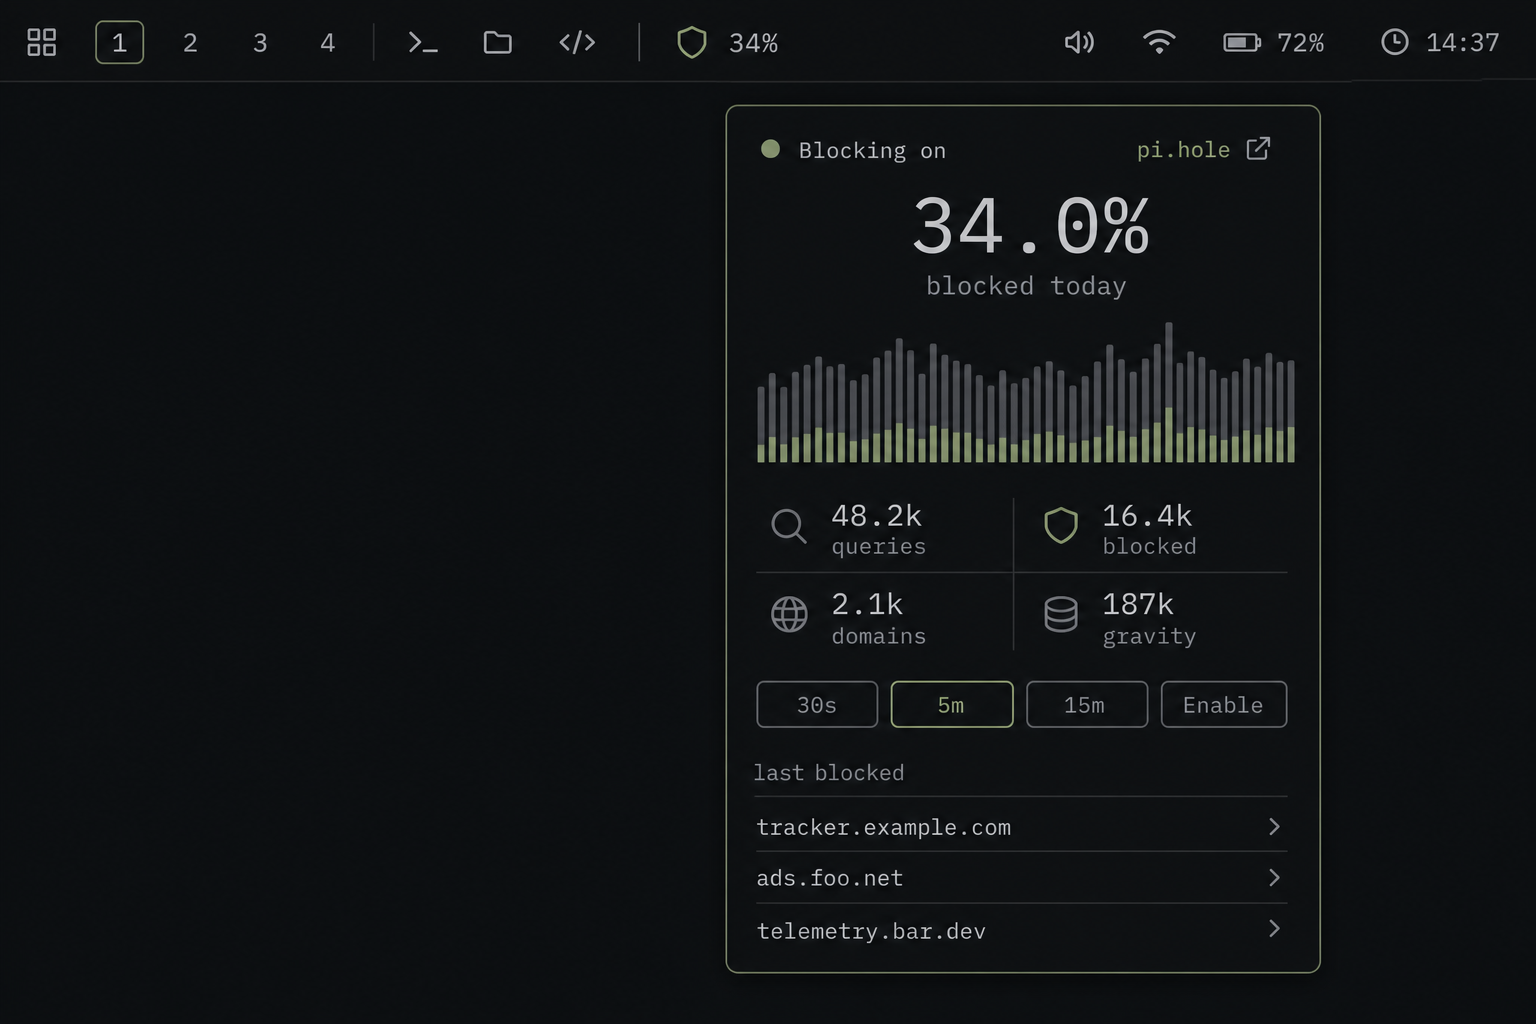
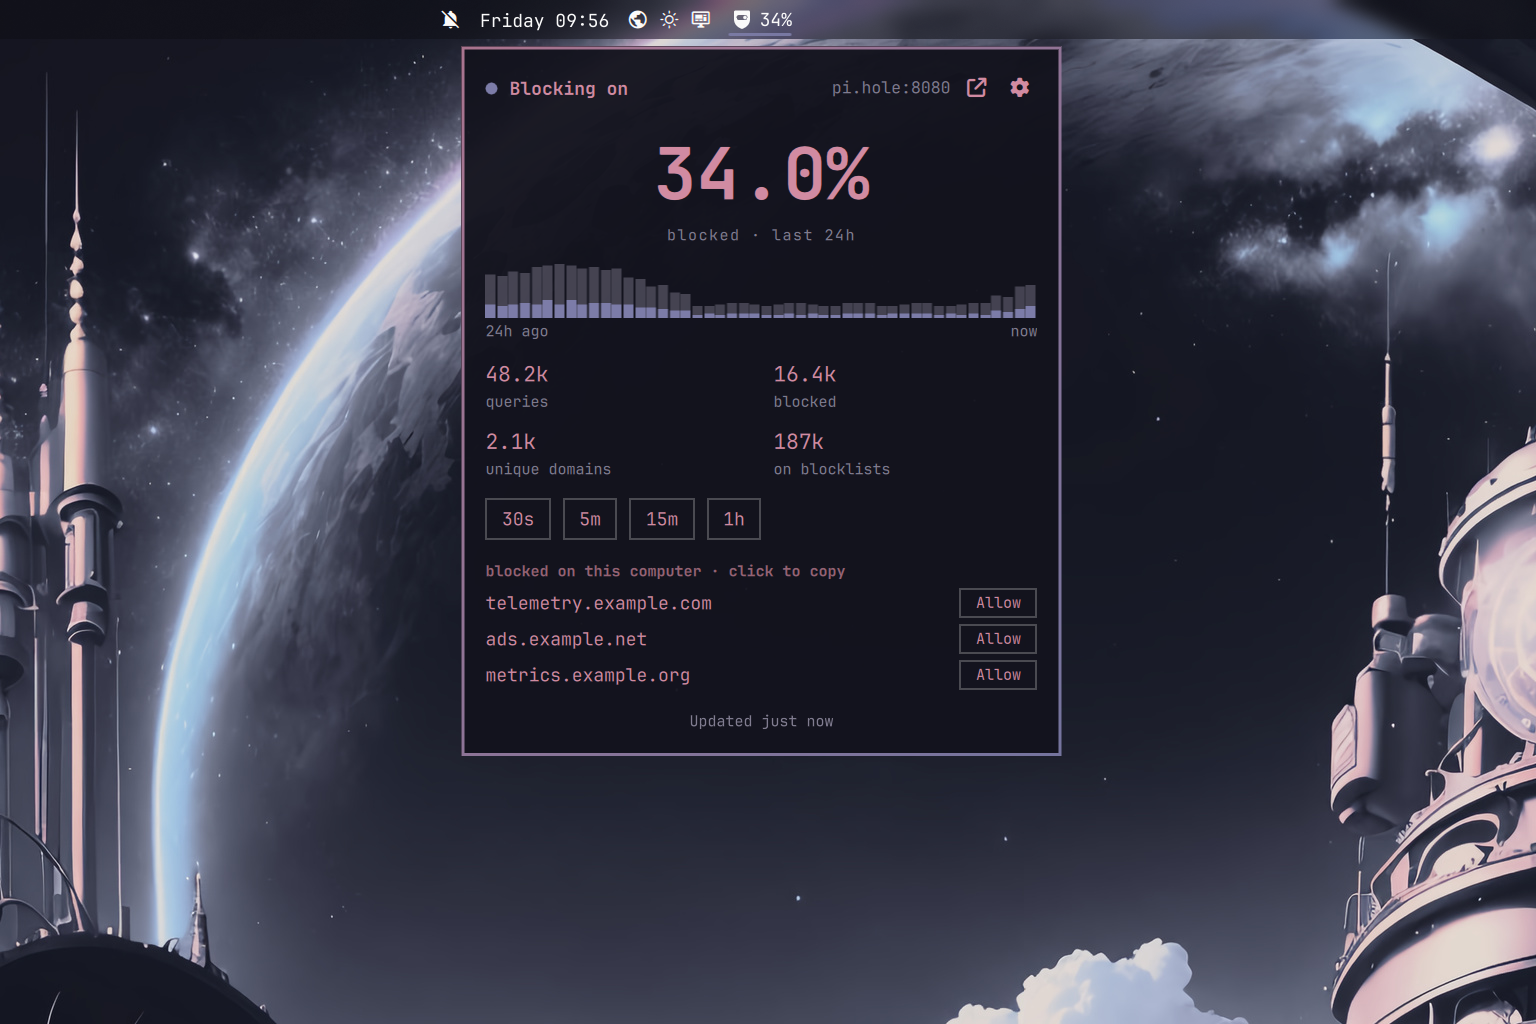
Replace the mockup with real screenshots
preview.png was a stylised mockup from 0.1.0. It is now the real panel
in Omarchy 4.5, with paused and settings views beside it in the
README. They were taken on an empty workspace against a local demo
Pi-hole serving generic data, so they show no real addresses,
domains or windows.

diff --git a/CHANGELOG.md b/CHANGELOG.md
@@ -11,6 +11,7 @@ All notable changes to OmaPihole. The format follows [Keep a Changelog](https://
 - The palette is read as `Commons.Color`, every string is drawn as plain text, and animations follow `omarchy toggle animations`, as Omarchy's plugin guide asks.
 - Settings are saved in one write that keeps the fields the setup form does not edit.
 - The plugin's strings are in `i18n/en.json` and follow Setup > Language; numbers use the language's separator and digits. English only so far.
+- The README explains that the API URL needs the port, what Dashboard URL and Allow insecure TLS do and don't do, and how to read Away from home, Offline, Failed and auth. Its screenshots are now real, taken against a demo Pi-hole.
 
 ### Added
 
@@ -22,6 +23,7 @@ All notable changes to OmaPihole. The format follows [Keep a Changelog](https://
 
 ### Fixed
 
+- The bar mark looked blurry and blocky on fractional display scales; it is now drawn with Qt's curve renderer and stays crisp.
 - After a URL change, or when **Test connection** checked a draft URL, the saved session ID was sent to the other host. Sessions are now tied to their host, and **Test connection** uses a throwaway session.
 - A valid saved session let **Test connection** pass with a wrong password file.
 - The same blocked domain could be listed more than once.

diff --git a/README.md b/README.md
@@ -5,7 +5,7 @@
 # OmaPihole
 
 <p align="center">
-  <img src="preview.png" alt="OmaPihole in the Omarchy bar: the mark, block percent, and the pause panel">
+  <img src="preview.png" alt="The OmaPihole panel open below the Omarchy bar: 34% blocked in the last 24 hours, a sparkline, query stats, pause buttons, and the domains blocked on this computer">
 </p>
 
 Pi-hole presence in the Omarchy bar: **state, pause, glance.**
@@ -18,6 +18,11 @@ Not a dashboard. A shield in the bar, a pause in the panel.
 - Glance at the last 24 hours’ block rate, and notice when the Pi-hole has an update or warnings waiting.
 
 One Pi-hole. The app password lives in a mode-600 file, never in `shell.json`.
+
+<p align="center">
+  <img src="assets/paused.webp" width="49%" alt="Paused: the bar counts down 4:55 in the urgent color, and the panel says resumes in 4:55 with a Resume button">
+  <img src="assets/setup.webp" width="49%" alt="Settings: the API URL http://pi.hole:8080, the password file, optional dashboard URL and CA certificate file, and Test connection">
+</p>
 
 ## Requirements
 
